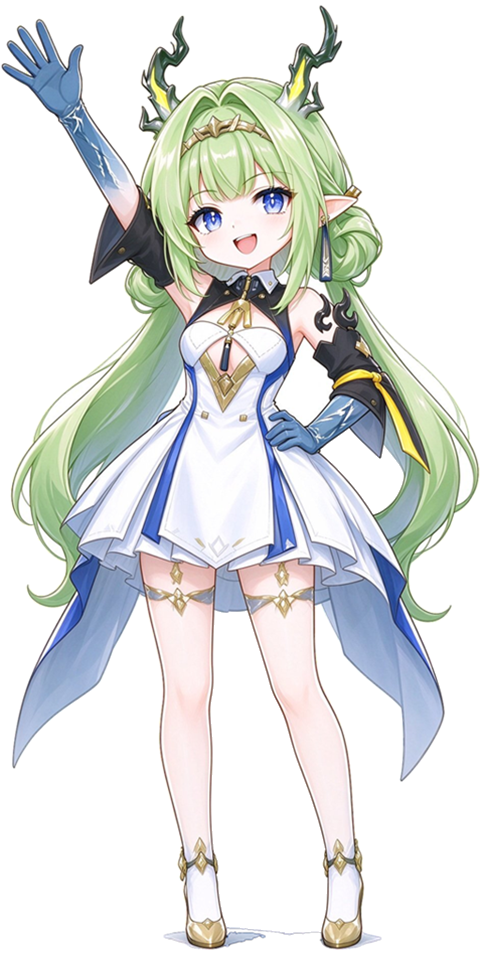
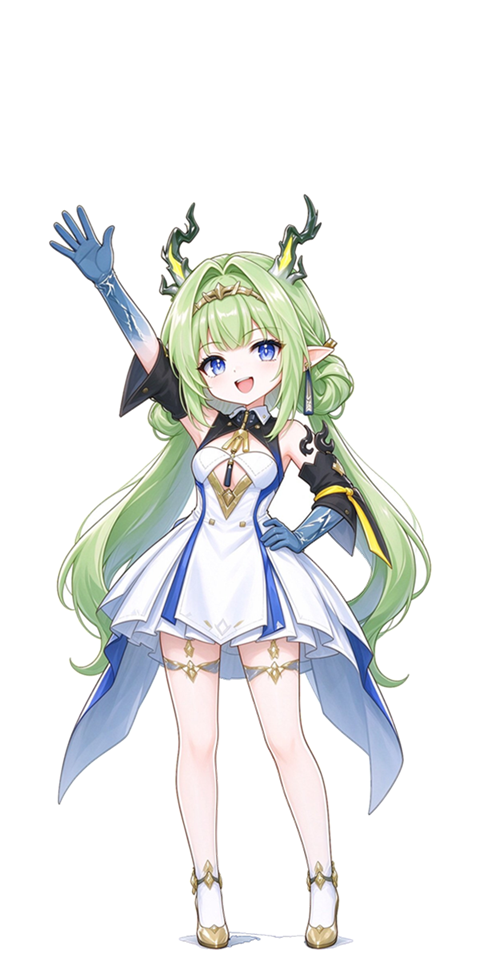
style(吉祥物): 挥手图矮五分之一;test(启动器): 兄弟用例也改重试
①挥手那张立绘本来比别的姿势高(手臂举起),按透明外框缩到 0.8 倍(她本人 946→757),仍在同一块 480x960 画布、同一条底线上,切换时比例尺不变。②S21 里'服务降级到别的端口'那条与已修的那条是同一类环境噪声(并行时别的实例先被认出来),照同样办法换端口/重试,不再时好时坏。

diff --git a/test/s27-mascot.test.js b/test/s27-mascot.test.js
@@ -19,6 +19,21 @@ const read = (rel) => fs.readFileSync(path.join(PROJECT_ROOT, rel), 'utf8');
 
 const ASSETS = ['wave.png', 'struggle.png', 'idle.png', 'point.png'];
 
+test('S27 · 挥手图应比其它张矮一截（她举手时不显得顶到天）', () => {
+  // 画布统一是 480x960，但她本人占的高度不一样：挥手那张用户明确要求矮五分之一。
+  const boxOf = (name) => {
+    const p = path.join(PROJECT_ROOT, 'img', 'mascot', name);
+    const b = fs.readFileSync(p);
+    const w = b.readUInt32BE(16);
+    const h = b.readUInt32BE(20);
+    return { w, h };
+  };
+  for (const name of ASSETS) {
+    const box = boxOf(name);
+    assert.equal(`${box.w}x${box.h}`, '480x960', `${name} 应统一在 480x960 画布上`);
+  }
+});
+
 test('S27 · 四张素材都在，且是带透明通道的 PNG', async (t) => {
   const srv = await startTestServer();
   t.after(() => srv.close());
